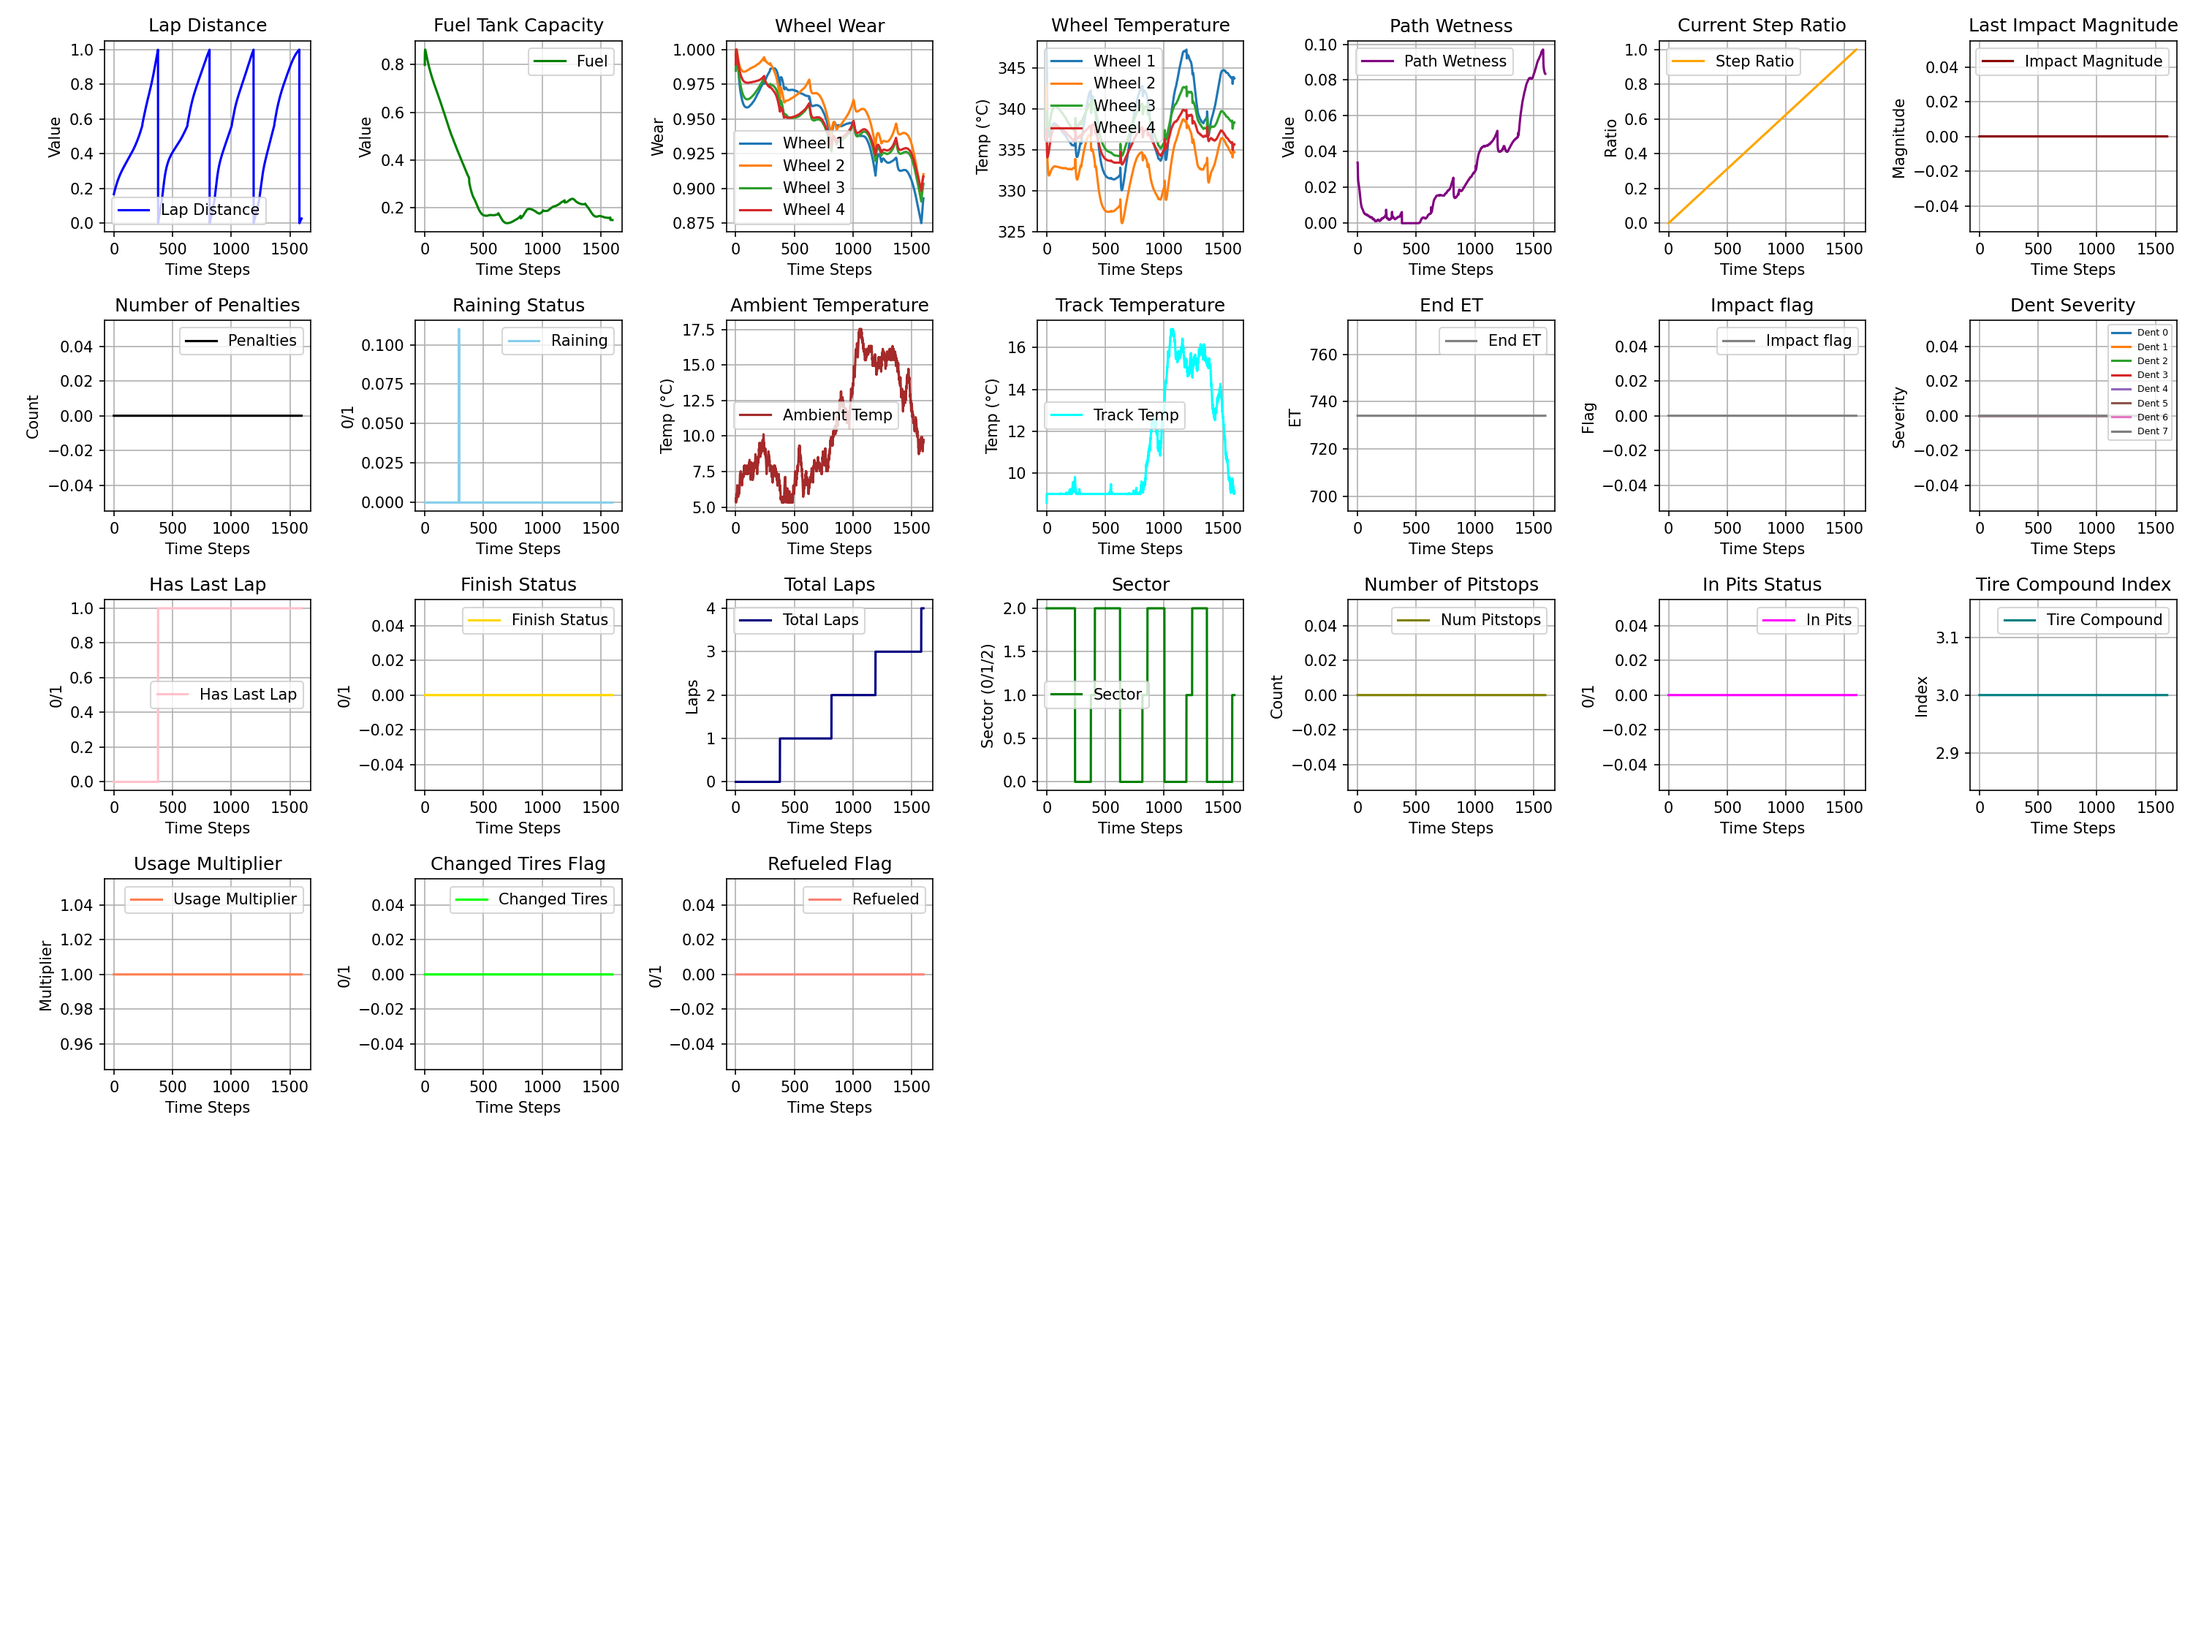
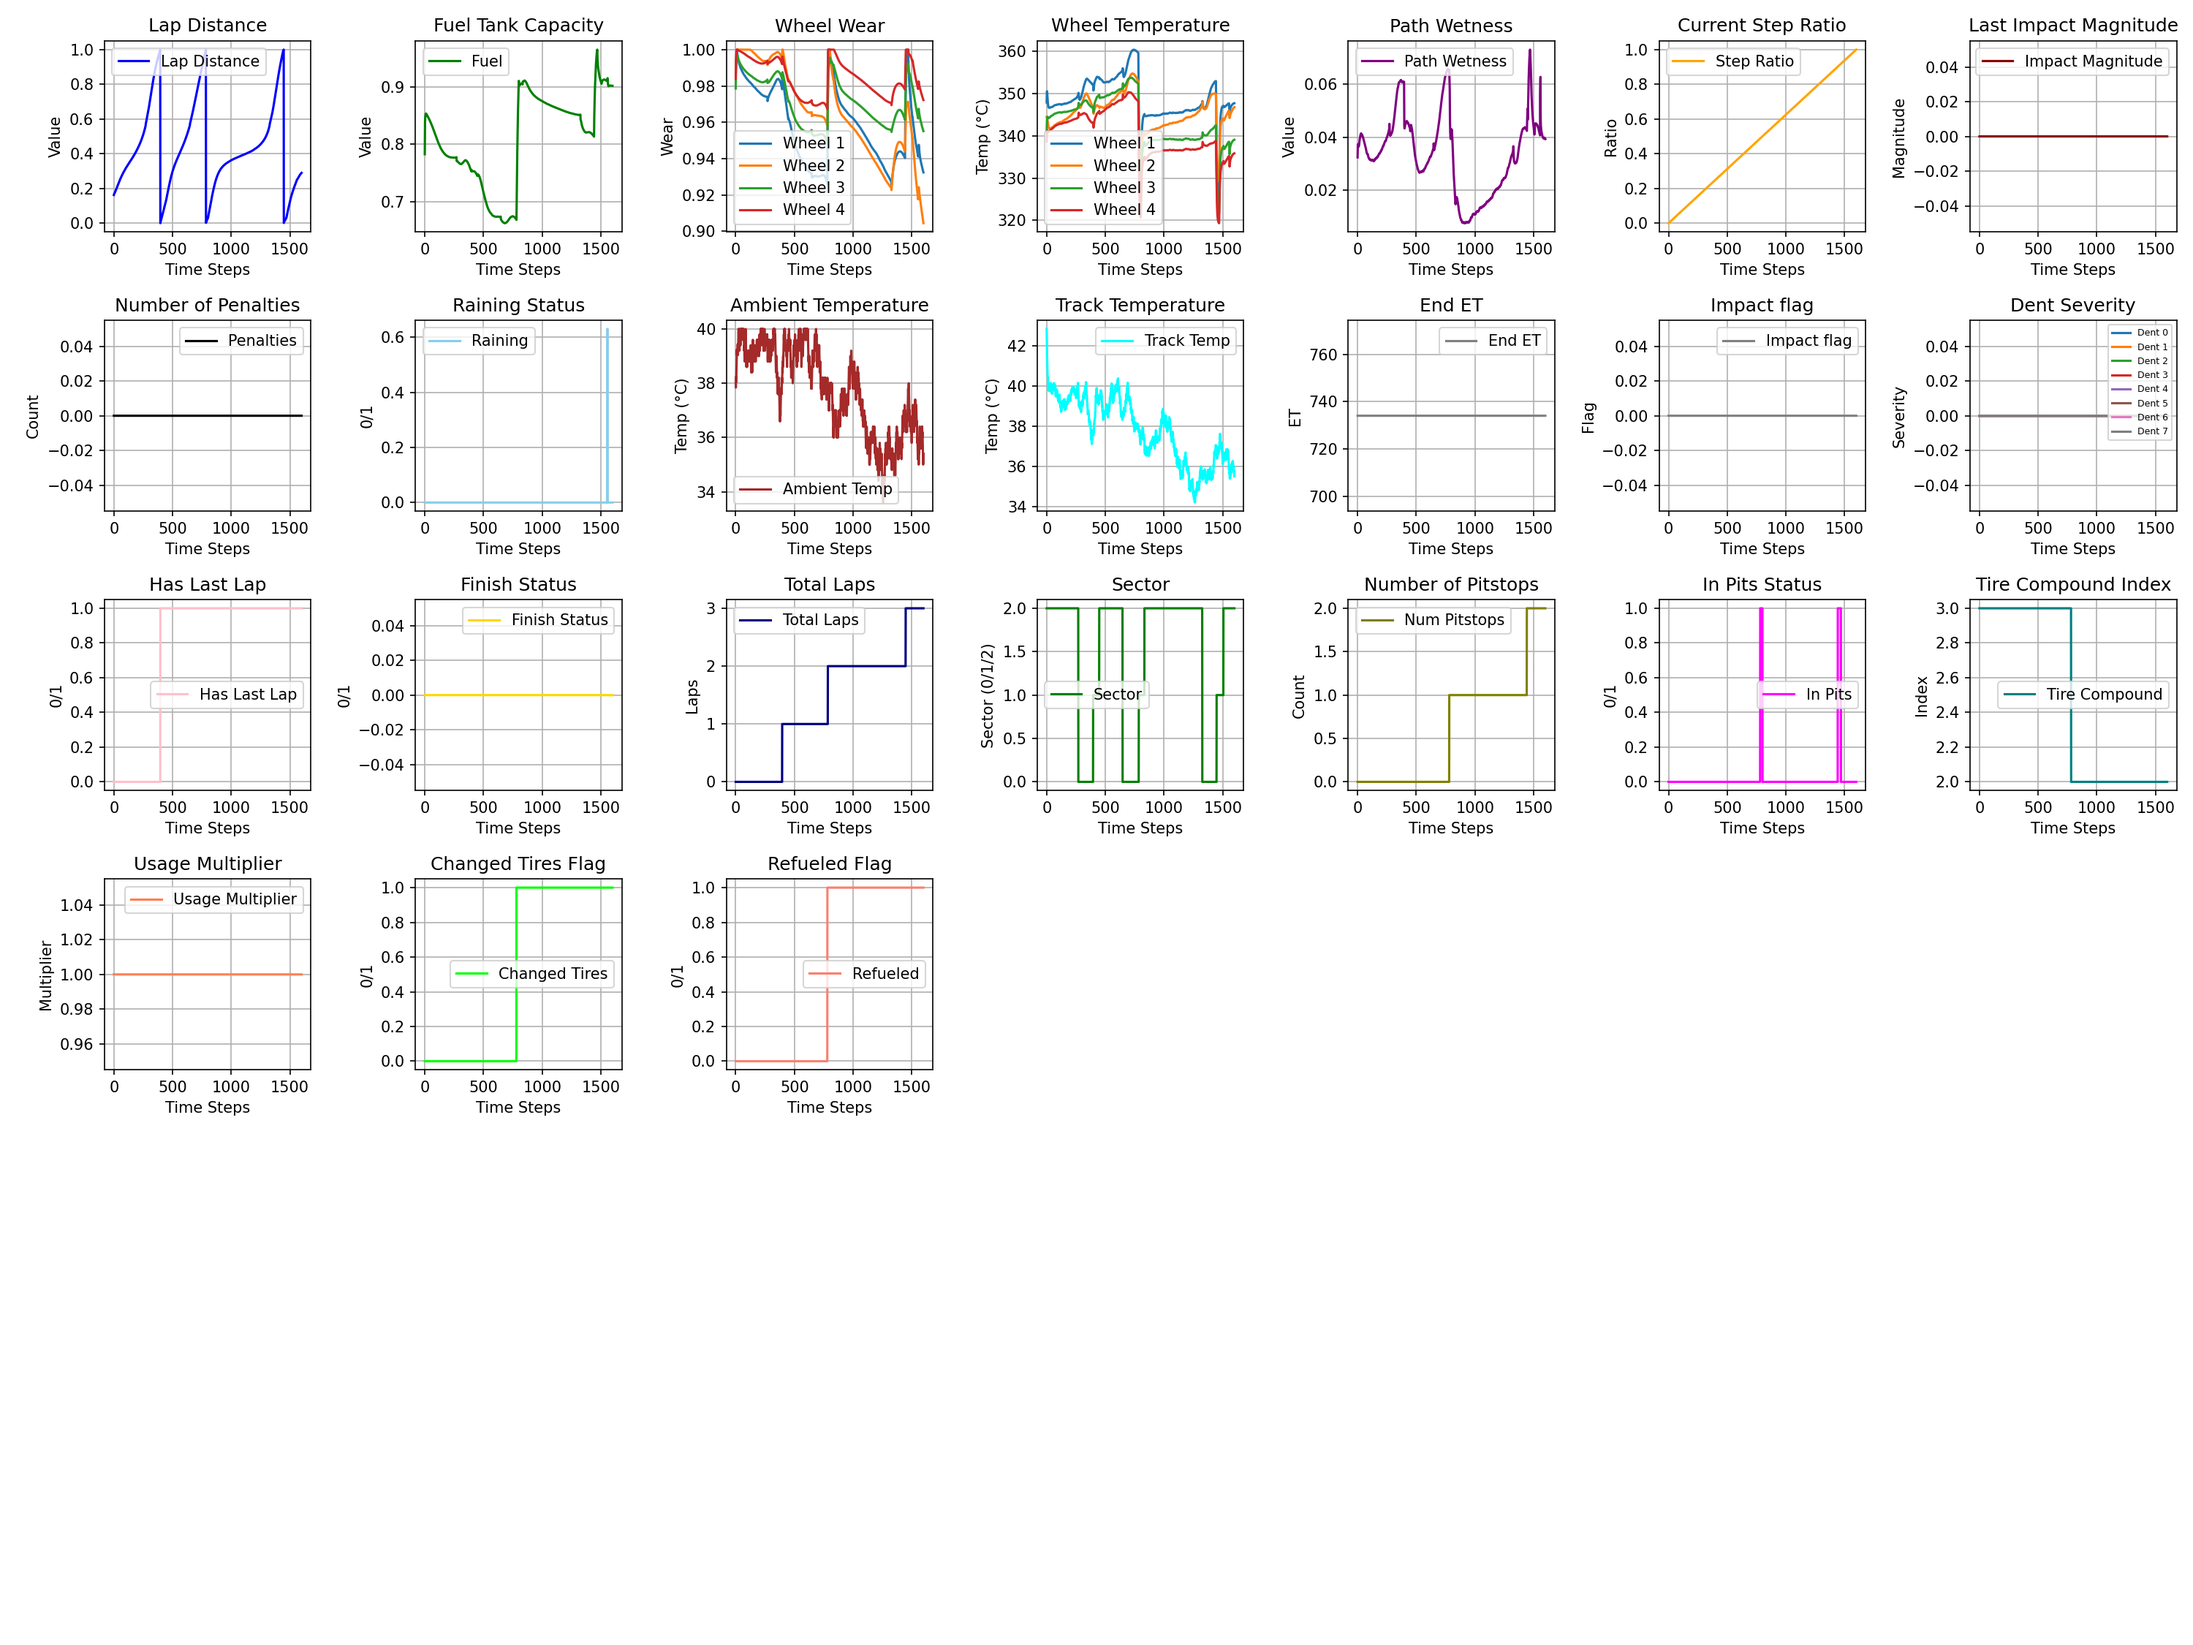
refactor impact and weather generation logic for improved randomness and damage calculations, working pitstops in env

diff --git a/envs/racing_env.py b/envs/racing_env.py
@@ -57,6 +57,7 @@ class RacingEnv(gym.Env):
         self.curr_step = 0
         self.total_steps = 1600
         self.impact_flag = 0.0
+        self.pitted = False
 
         self.weather_conditions = generate_weather_conditions(self.total_steps)
         
@@ -357,15 +358,19 @@ class RacingEnv(gym.Env):
     def step(self,action,last_step):
         """One step of the environment's dynamics.(NOT ONE LAP)"""
         prev_sector = self.sector
+        reward = 0.0
         while True:
-            if (prev_sector == 2.0 and self.sector == 0.0) or (prev_sector == 1.0 and self.sector == 2.0) or self.finish_status == 1.0:
+            # if (prev_sector == 2.0 and self.sector == 0.0) or (prev_sector == 1.0 and self.sector == 2.0) or self.finish_status == 1.0:
+            if (prev_sector == 0.0 and self.sector == 1.0) or self.finish_status == 1.0:
                 if self.lap == 0:
                     reward = 0.0
                 else:
                     reward = self.compute_reward(last_step)
+            
+            if (prev_sector == 2.0 and self.sector == 0.0):
 
-                
-                
+
+
                 break
             
             # possible_power_settings = [0.5,0.6,0.7,0.8,0.9,1]
@@ -443,23 +448,28 @@ class RacingEnv(gym.Env):
             
             # Check if in pits and handle pit stop actions
             if action[0] == 1:
-                if pit_entry_line_dist <= data_lstm[0] <= 1.01 and 0 <= data_lstm[0] <= pit_exit_line_dist and self.laps != 0:
+                if (pit_entry_line_dist <= data_lstm[0] <= 1.01 or 0 <= data_lstm[0] <= pit_exit_line_dist) and self.laps != 0:
                     self.in_pits = 1.0
                     if not self.checked_pit:
-                        self.number_of_pit_stops += 1.0
                         self.checked_pit = True
                 else:
                     self.in_pits = 0.0
                     self.checked_pit = False
+                    self.pitted = False
+                
+                if self.in_pits == 1.0:
+                    a = 0
                     
-                if data_lstm[0] > 80.0:
+                if data_lstm[0] > 80.0/lap_dist_max and self.in_pits == 1.0 and not self.pitted:
                     self.tire_compound_index = action[1] - 1.0
                     self.changed_tires_flag = 1.0
-                    self.fuel_tank_capacity = action[3] * 0.05
+                    self.fuel_tank_capacity = min(action[3] * 0.05, self.fuel_tank_capacity)
                     self.refueled_flag = 1.0
                     if action[2] == 1:
                         for i in range(len(self.dent_severity)):
                             self.dent_severity[i] = 0.0
+                    self.pitted = True
+                    self.num_pit_stops += 1.0
                 
             
             # impact_magnitude = random_impact_magnitude()

diff --git a/envs/impact_generator.py b/envs/impact_generator.py
@@ -12,7 +12,7 @@ import numpy as np
 # mDentSeverity[6]: min=0.0, max=0.0
 # mDentSeverity[7]: min=0.0, max=2.0
 
-def random_impact_magnitude(prob_impact = 0.0000001):
+def random_impact_magnitude(prob_impact = 0.0000001): #real is 0.01
 
     if np.random.rand() > prob_impact:
         return 0.0
@@ -27,41 +27,55 @@ def generate_dent_severity(impact_magnitude,dent_severity_current):
     # Przykładowe progi i losowanie uszkodzenia
     if impact_magnitude == 0.0:
         return dent_severity_current
+    values = [0, 1, 2, 3] #front,right,left,rear
+    probabilities = [0.35, 0.15, 0.15, 0.35]
+
+    random_value = np.random.choice(values, p=probabilities)
+
+    #map elements to damage based on impact location
+    if random_value == 0:
+        elements_to_damage = [0,1,7]
+    if random_value == 1:
+        elements_to_damage = [1,3]
+    if random_value == 2:
+        elements_to_damage = [5,7]
+    if random_value == 3:
+        elements_to_damage = [3,4,5]
     
     if impact_magnitude < 2000:
-        elem_damage_prob = 0.01
+        elem_damage_prob = 0.05
         damage_levels = [1.0]
         damage_probs = [1.0]
     elif impact_magnitude < 4000:
-        elem_damage_prob = 0.015
+        elem_damage_prob = 0.08
         damage_levels = [1.0]
         damage_probs = [1.0]
     elif impact_magnitude < 6000:
-        elem_damage_prob = 0.02
+        elem_damage_prob = 0.1
         damage_levels = [1.0, 2.0]
         damage_probs = [0.7, 0.3]
     elif impact_magnitude < 8000:
-        elem_damage_prob = 0.03
+        elem_damage_prob = 0.2
         damage_levels = [1.0, 2.0]
         damage_probs = [0.6, 0.4]
     elif impact_magnitude < 12000:
-        elem_damage_prob = 0.04
+        elem_damage_prob = 0.4
         damage_levels = [1.0, 2.0]
         damage_probs = [0.5, 0.5]
     elif impact_magnitude < 15000:
-        elem_damage_prob = 0.05
+        elem_damage_prob = 0.6
         damage_levels = [1.0, 2.0]
         damage_probs = [0.4, 0.6]
     elif impact_magnitude < 20000:
-        elem_damage_prob = 0.07
+        elem_damage_prob = 0.9
         damage_levels = [1.0, 2.0]
         damage_probs = [0.3, 0.7]
     else:
-        elem_damage_prob = 0.09
+        elem_damage_prob = 1.0
         damage_levels = [2.0]
         damage_probs = [1.0]
 
-    for i in range(8):
+    for i in elements_to_damage:
         if i == 2 or i == 6:
             continue  # te elementy się nie uszkadzają
         if np.random.rand() < elem_damage_prob:  # szansa na uszkodzenie tego elementu

diff --git a/envs/weather_generator.py b/envs/weather_generator.py
@@ -23,12 +23,12 @@ def generate_weather_conditions(num_conditions,mRaining_start=0.0,mAmbientTemp_s
         # Deszcz: jeśli nie pada, bardzo mała szansa na start
         if mRaining < 0.01:
             if random() < 0.001:  # 1% szansy na początek deszczu
-                mRaining = 0.1
+                mRaining = uniform(0.1, 1.0)  
         else:
             # Jeśli pada, powolna zmiana intensywności
             mRaining = min(1, max(0, mRaining + uniform(-0.01, 0.01)))
-            # Szansa na koniec deszczu tylko jeśli bardzo słaby
-            if random() < 0.05: #mRaining < 0.05 
+            
+            if random() < 0.005: #mRaining < 0.05 
                 mRaining = 0.0
 
         # Temperatura: powolne zmiany, ograniczone zakresy
